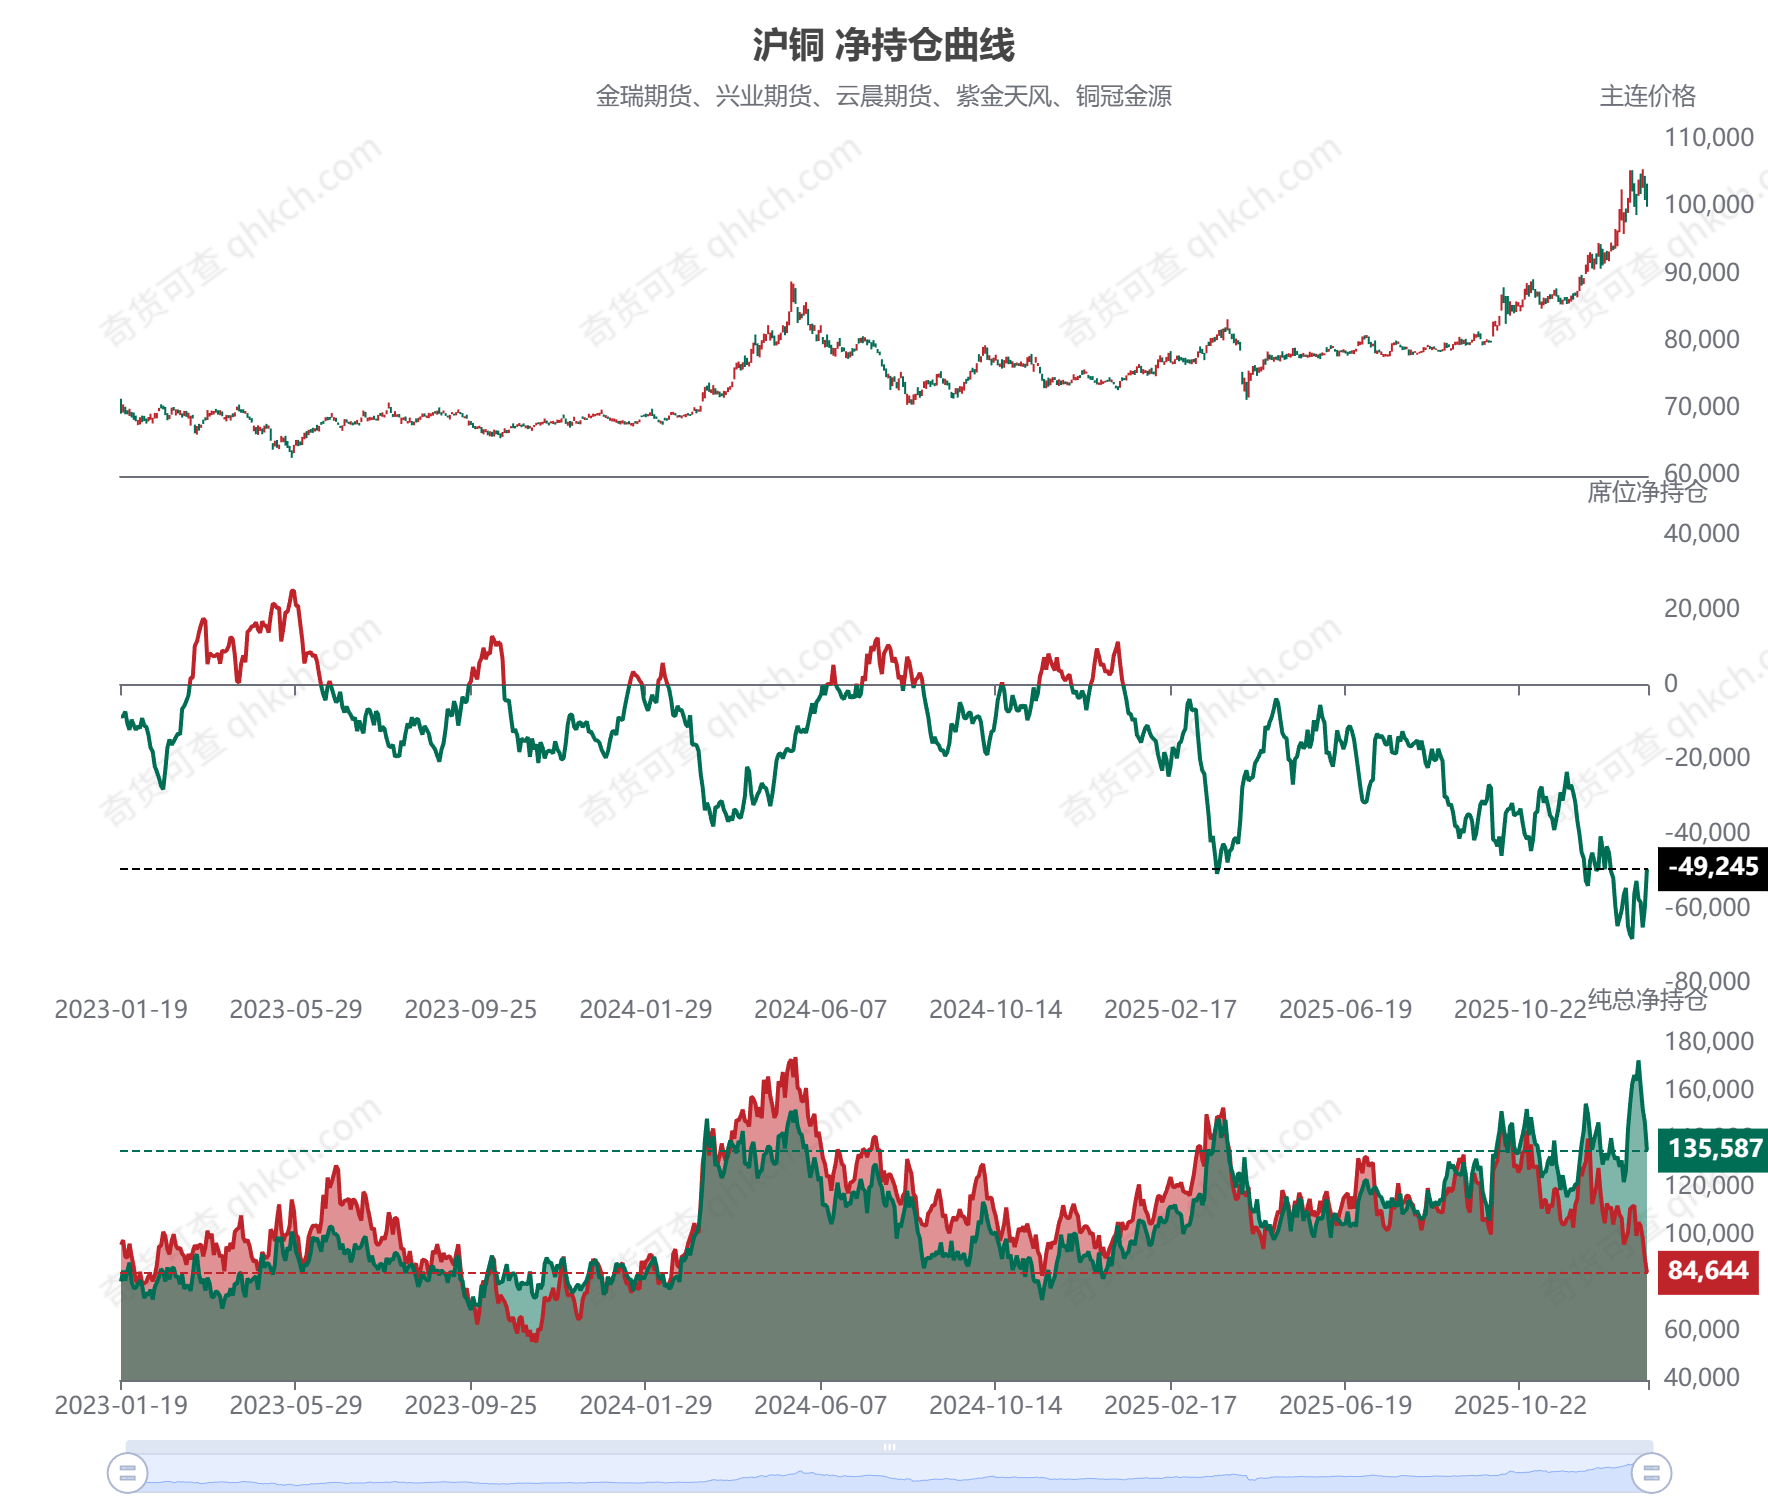
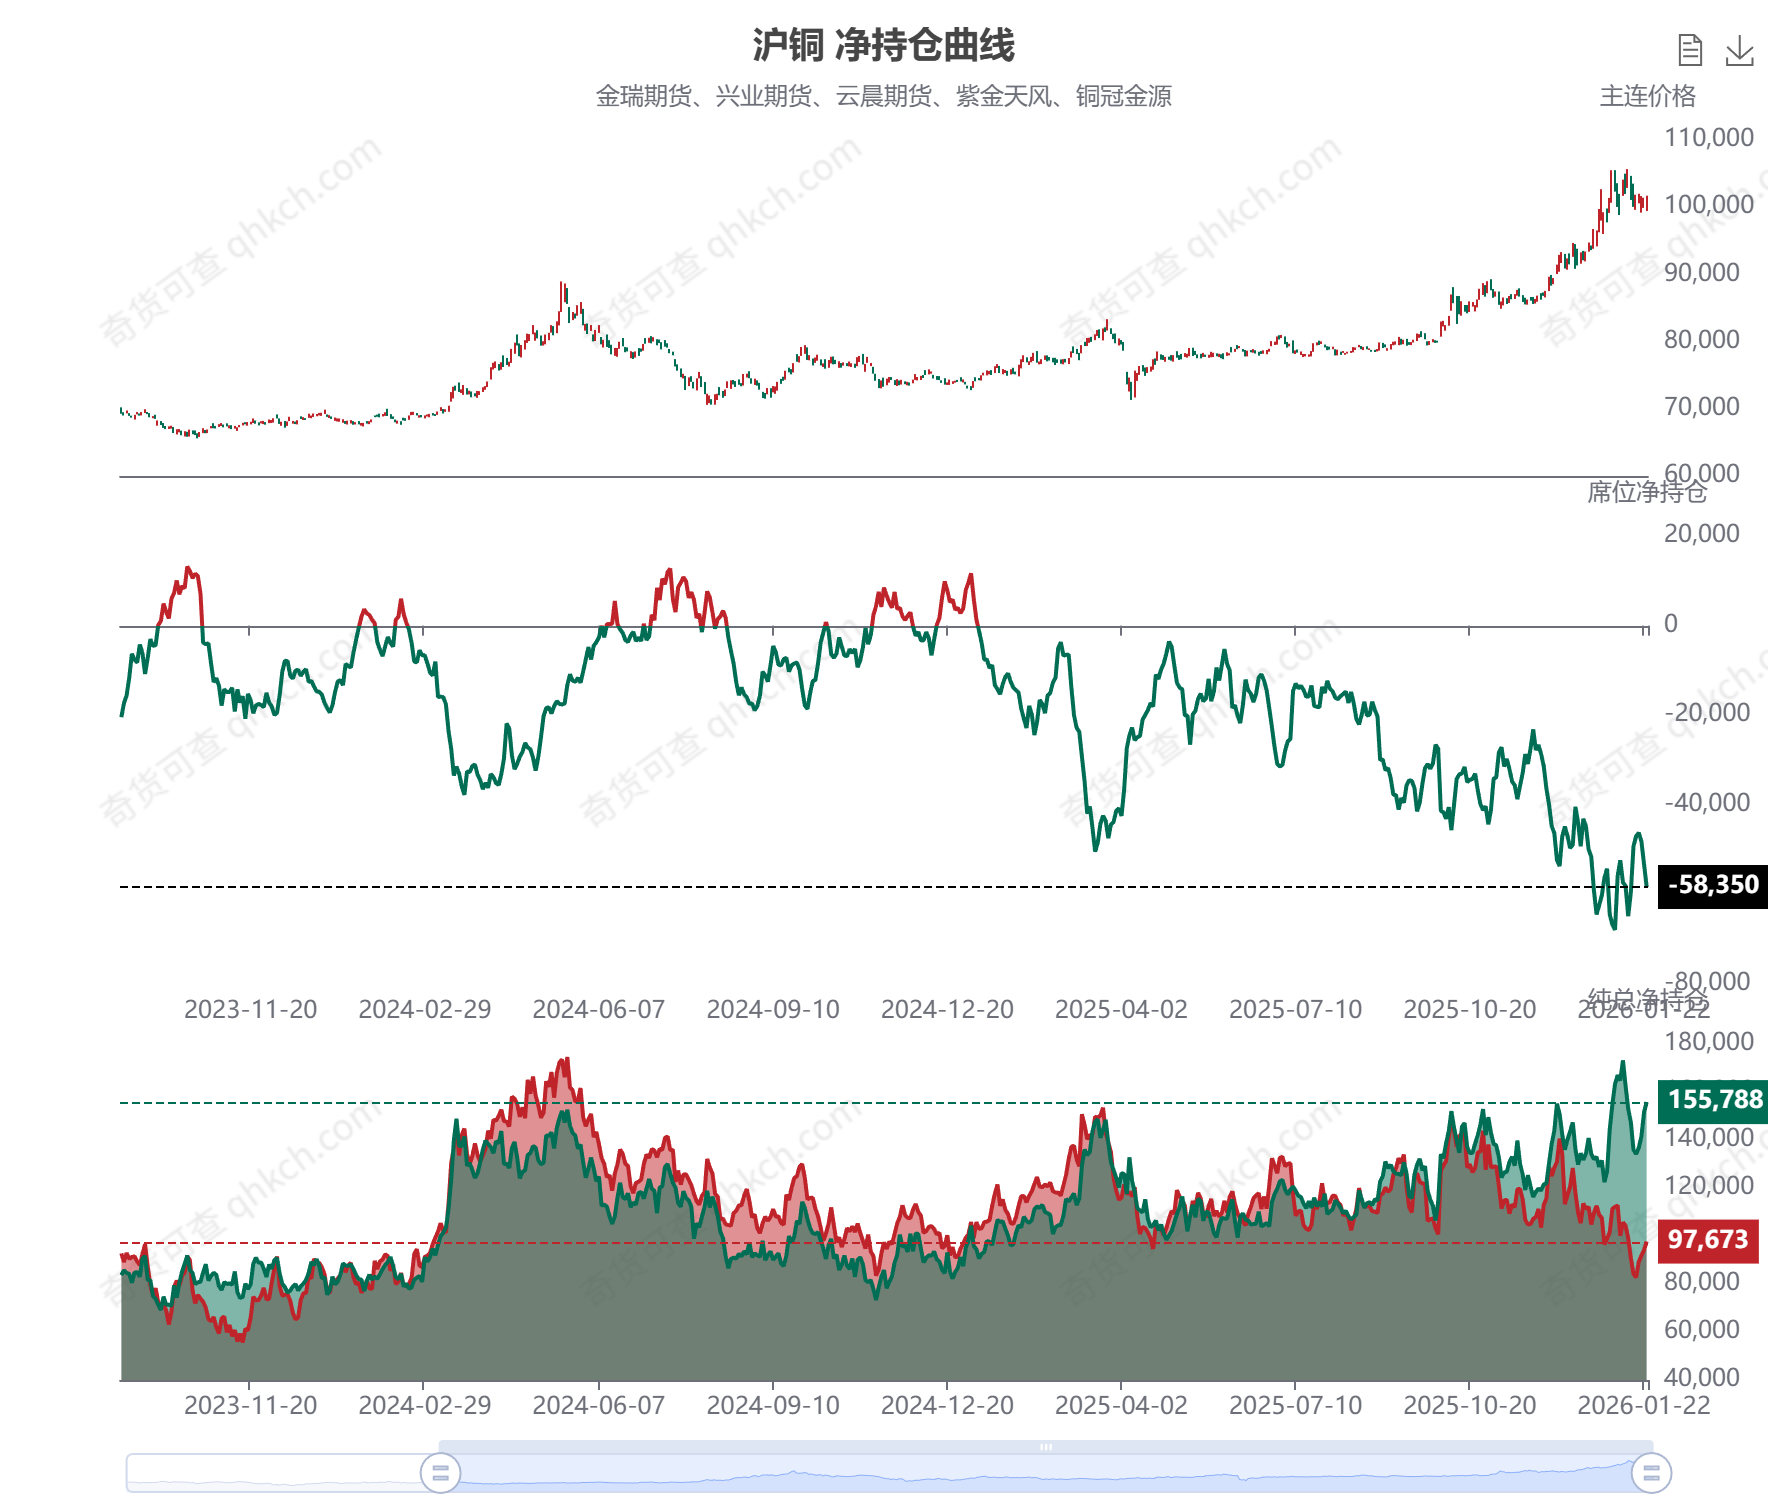
LAPTOP-KRS16UJL 2026-1-25:22:49:25

diff --git a/铜市场分析20260125.md b/铜市场分析20260125.md
@@ -47,9 +47,9 @@
 
 # 高频数据跟踪
 
-截至26.1.16
+截至26.1.22
 
-![[ec80dfa8fad8b245c85e21f689008f4a.png|1250]]
+![[97626eedac728c796f815954f763aee9.png|1250]]
 
 ![[产业套保净空持仓.png|1250]]
 
